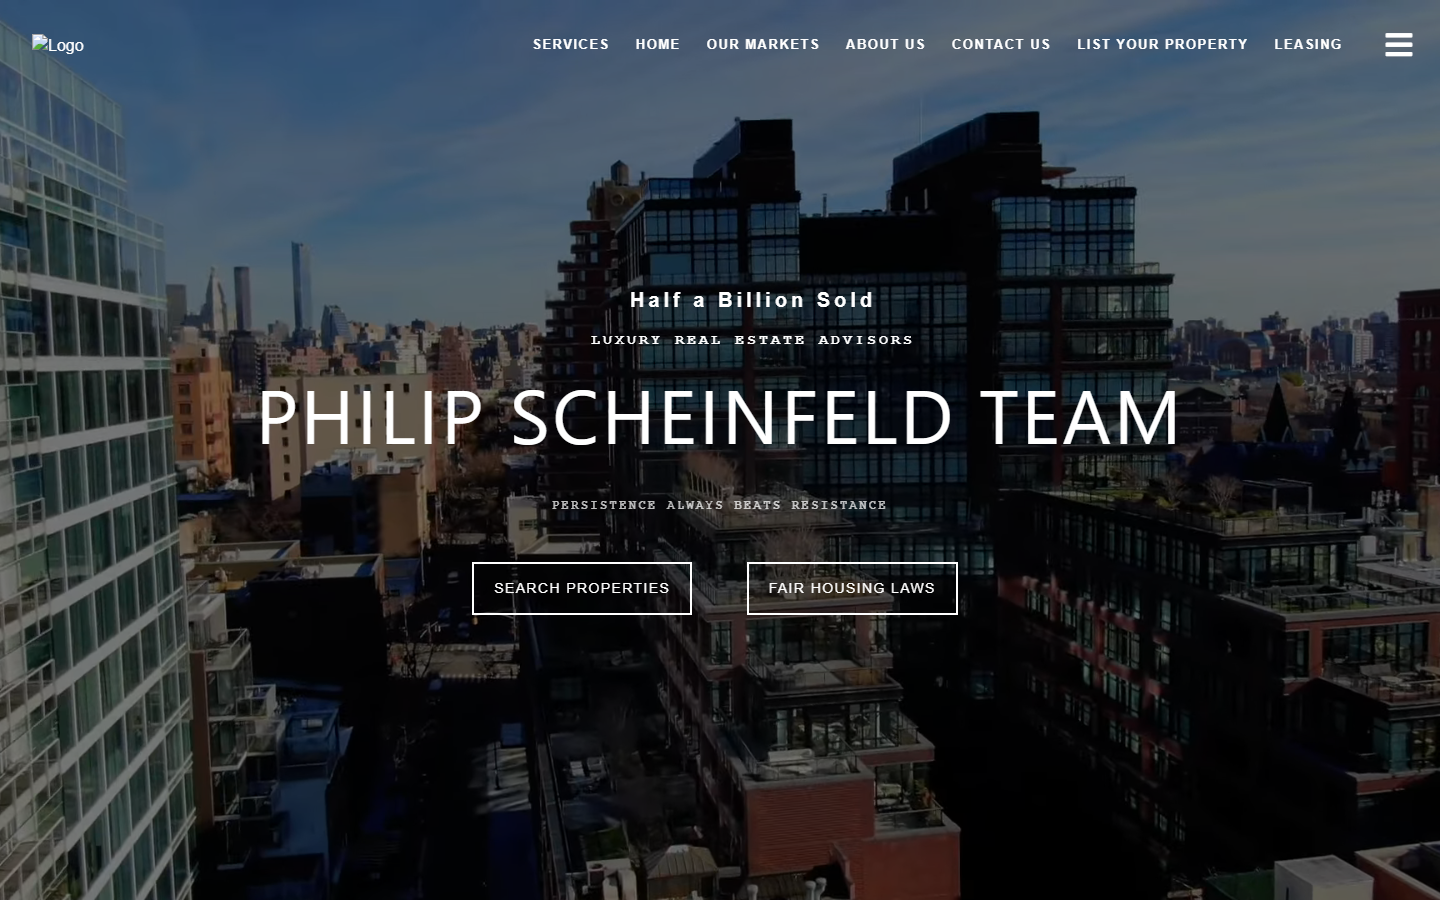
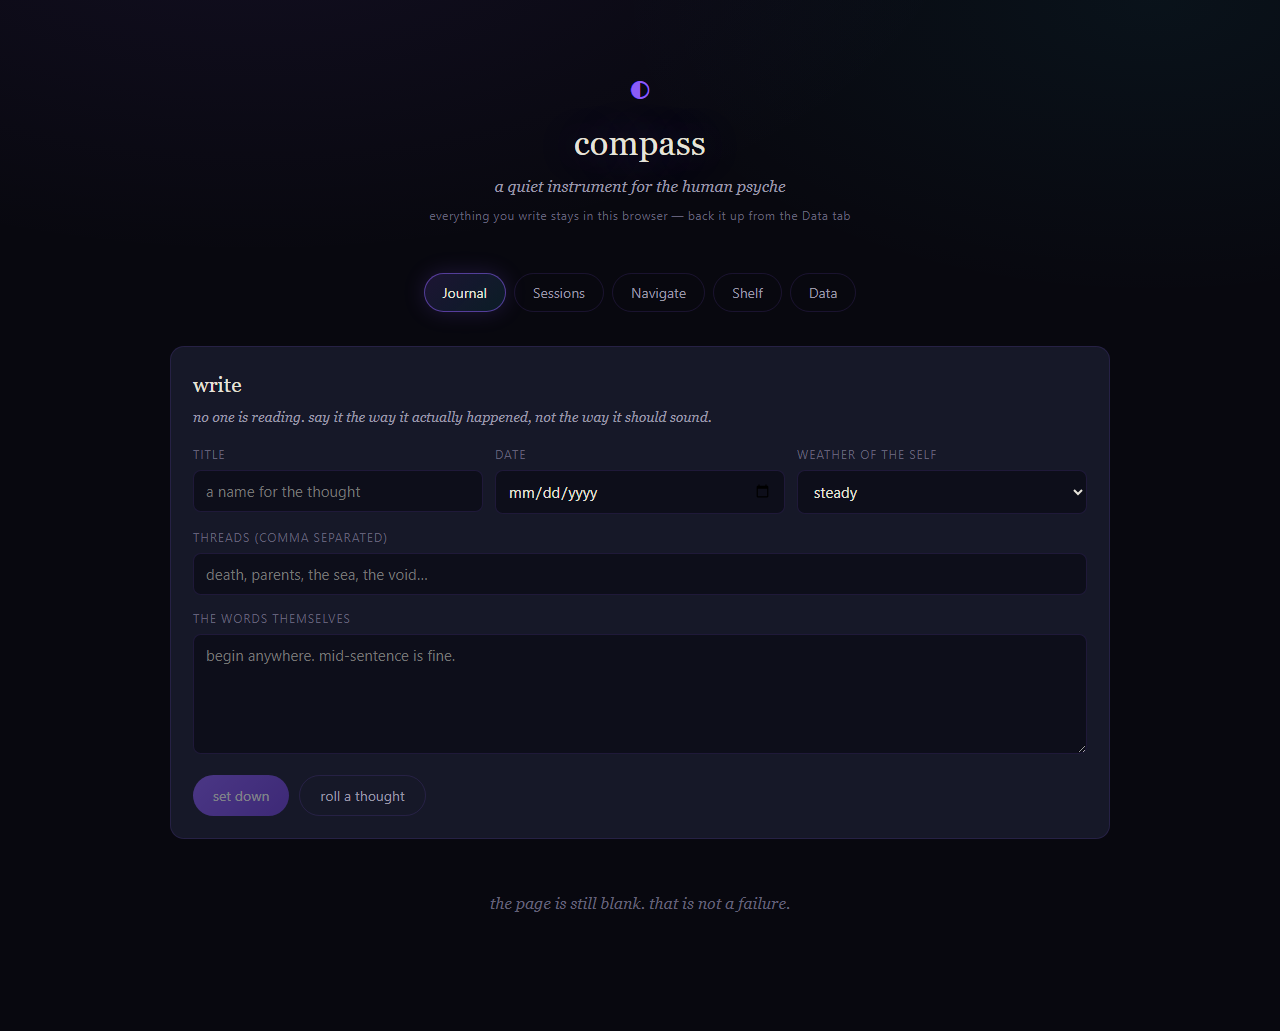
Expose Viper Web3 audit service

diff --git a/workers/site-backend/src/index.ts b/workers/site-backend/src/index.ts
@@ -10,6 +10,57 @@ const json = (payload: unknown, status = 200): Response =>
 		}
 	});
 
+const analyzeSolidity = (source: string) => {
+	const checks = [
+		{
+			id: 'tx-origin',
+			severity: 'high',
+			pattern: /\btx\.origin\b/,
+			title: 'tx.origin is used for authorization',
+			recommendation: 'Use msg.sender for authorization decisions.'
+		},
+		{
+			id: 'unchecked-call',
+			severity: 'high',
+			pattern: /\.call\s*(?:\{[^}]*\})?\s*\(/,
+			title: 'Low-level call requires return-value handling',
+			recommendation: 'Check the success value and returned data, or use a typed interface.'
+		},
+		{
+			id: 'delegatecall',
+			severity: 'high',
+			pattern: /\.delegatecall\s*\(/,
+			title: 'delegatecall can execute code in the caller context',
+			recommendation: 'Restrict targets and document storage-layout and upgrade assumptions.'
+		},
+		{
+			id: 'selfdestruct',
+			severity: 'high',
+			pattern: /\bselfdestruct\s*\(/,
+			title: 'Contract destruction is present',
+			recommendation: 'Review whether destruction is required and protect it with explicit authorization.'
+		},
+		{
+			id: 'block-timestamp',
+			severity: 'medium',
+			pattern: /\bblock\.timestamp\b/,
+			title: 'Block timestamp influences behavior',
+			recommendation: 'Do not use timestamps for precise randomness or security-critical deadlines.'
+		},
+		{
+			id: 'reentrancy-surface',
+			severity: 'medium',
+			pattern: /\b(nonReentrant|ReentrancyGuard)\b/,
+			title: 'Reentrancy protection should be verified at external call sites',
+			recommendation: 'Confirm checks-effects-interactions ordering and guard every sensitive entry point.'
+		}
+	];
+
+	return checks
+		.filter((check) => check.pattern.test(source))
+		.map(({ pattern, ...finding }) => finding);
+};
+
 export default {
 	async fetch(request: Request): Promise<Response> {
 		if (request.method === 'OPTIONS') return new Response(null, { status: 204, headers: json({}).headers });
@@ -26,6 +77,40 @@ export default {
 					{ name: 'go', contract: '/health', port: 4102 },
 					{ name: 'ruby', contract: '/health', port: 4103 }
 				]
+			});
+		}
+		if (url.pathname === '/api/viper-web3') {
+			return json({
+				service: 'viper-web3',
+				status: 'available',
+				mode: 'read-only-audit',
+				network: 'chain-agnostic',
+				endpoints: {
+					analyze: 'POST /api/viper-web3/analyze',
+					health: 'GET /health'
+				},
+				disclaimer: 'Heuristic triage only; run Foundry, Slither, Mythril, and human review for an audit.'
+			});
+		}
+		if (url.pathname === '/api/viper-web3/analyze') {
+			let body: unknown;
+			try {
+				body = await request.json();
+			} catch {
+				return json({ error: 'invalid_json' }, 400);
+			}
+			if (!body || typeof body !== 'object' || !('source' in body) || typeof body.source !== 'string') {
+				return json({ error: 'source_string_required' }, 400);
+			}
+			if (body.source.length === 0 || body.source.length > 200_000) {
+				return json({ error: 'source_must_be_between_1_and_200000_characters' }, 413);
+			}
+			const findings = analyzeSolidity(body.source);
+			return json({
+				service: 'viper-web3',
+				mode: 'read-only-audit',
+				findings,
+				summary: { findingCount: findings.length, analyzedCharacters: body.source.length }
 			});
 		}
 		return json({ error: 'not_found' }, 404);

diff --git a/workers/site-backend/README.md b/workers/site-backend/README.md
@@ -5,7 +5,14 @@ It runs without paid services or billing verification:
 
 - `GET /health` reports Worker health.
 - `GET /api/components` describes the Rust, Go, and Ruby service contracts.
+- `GET /api/viper-web3` exposes the Solidity audit service manifest.
+- `POST /api/viper-web3/analyze` accepts `{ "source": "..." }` and returns bounded,
+  heuristic Solidity triage findings.
 
 R2 asset storage is intentionally optional because Cloudflare requires billing
 verification to enable R2. The static portfolio continues to serve snapshots
 from GitHub Pages.
+
+The Viper-Web3 endpoint is chain-agnostic and read-only. It does not deploy
+contracts, access wallets, hold keys, or replace Foundry, Slither, Mythril, or
+human review.

diff --git a/README.md b/README.md
@@ -41,3 +41,7 @@ GitHub Actions deploys the Pages site and Worker when
 
 The backend Worker lives under `workers/site-backend` and does not require R2 or
 billing verification. R2 remains an optional future asset store.
+
+Viper-Web3 is available through the Worker as a chain-agnostic, read-only
+Solidity triage service at `/api/viper-web3` and
+`POST /api/viper-web3/analyze`.
